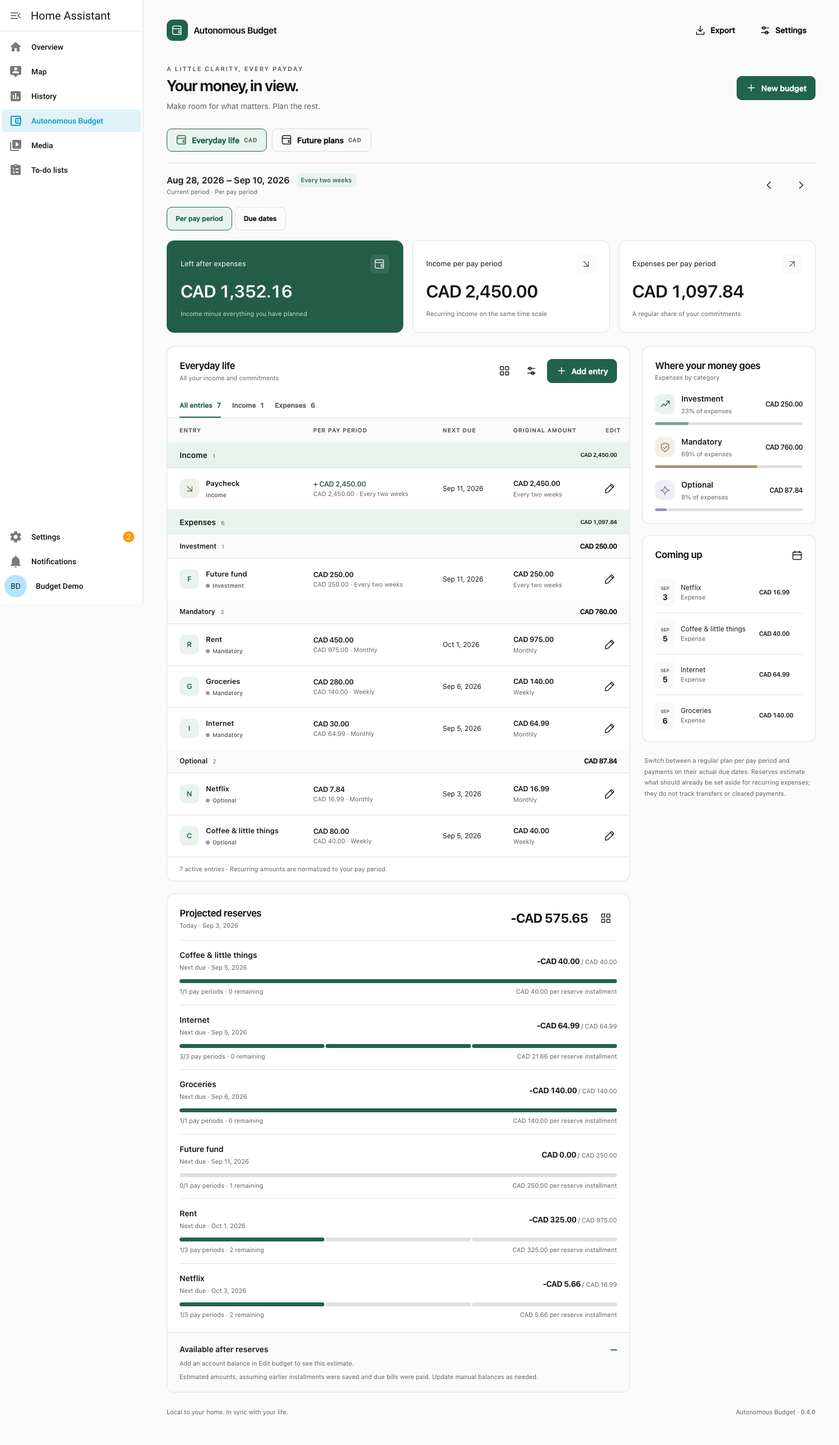
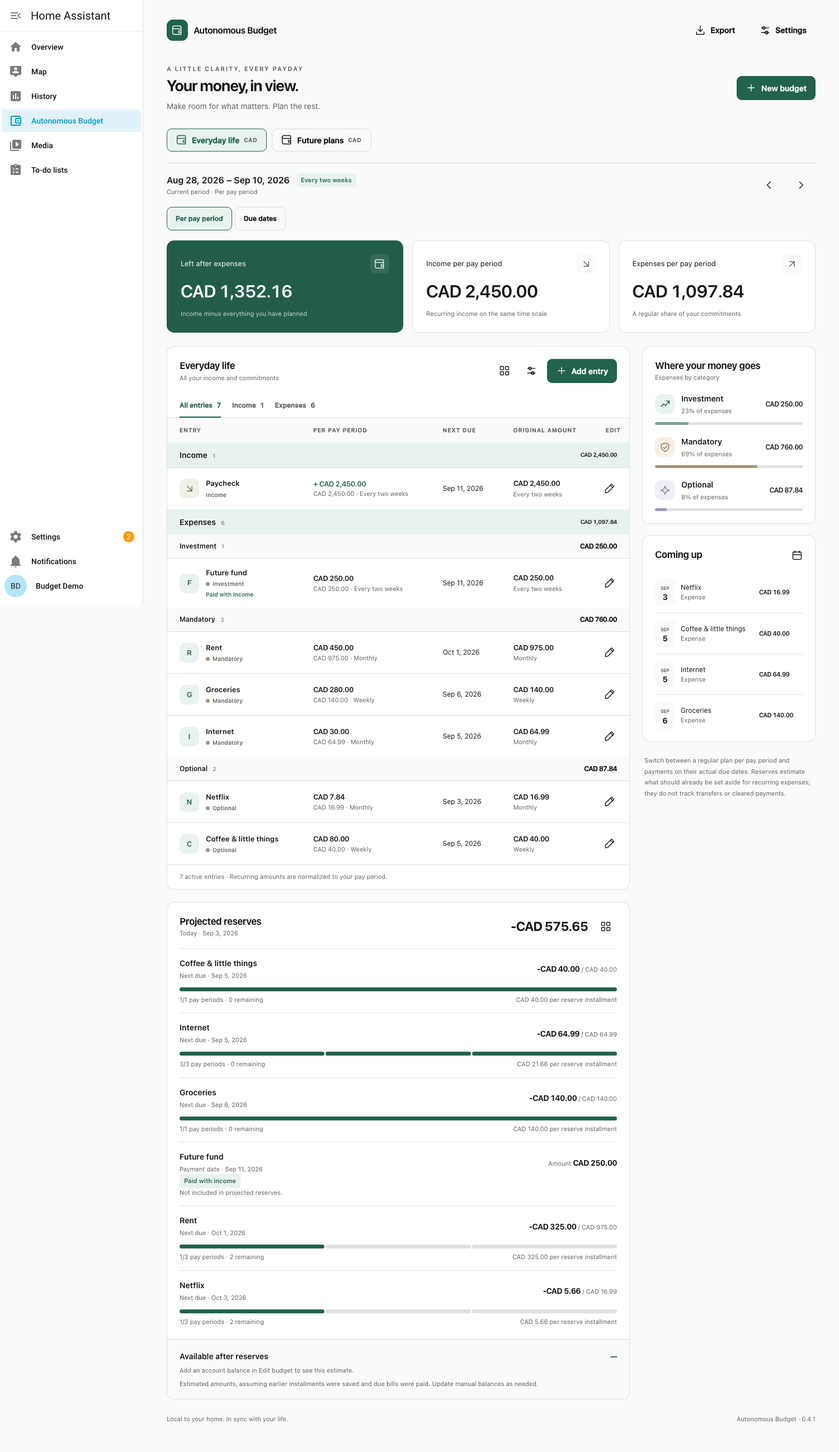
Exclude income-day expenses from projected reserves in 0.4.1

diff --git a/custom_components/autonomous_budget/frontend/autonomous-budget-panel.js b/custom_components/autonomous_budget/frontend/autonomous-budget-panel.js
@@ -1,4 +1,4 @@
-import { BudgetLiveElement, baseCSS, esc, icon, labels, options } from "./shared.js?v=0.4.0";
+import { BudgetLiveElement, baseCSS, esc, icon, labels, options } from "./shared.js?v=0.4.1";
 
 const css = `
 :host{height:100%;overflow:auto;background:var(--ab-bg)}.shell{max-width:1390px;margin:auto;padding:32px 42px 50px}.brand{gap:10px}.brand-mark{width:38px;height:38px;border-radius:11px;display:grid;place-items:center;background:var(--ab-green);color:var(--ab-surface)}.brand-title{font-size:16px;font-weight:650;letter-spacing:-.5px}.topbar{padding-bottom:32px}.topbar .muted{font-size:12px}.heading{margin:8px 0 27px}.heading p{margin-top:5px}.budgets{display:flex;gap:9px;overflow-x:auto;padding:3px 0 20px;align-items:center}.budget-tab{white-space:nowrap;background:transparent;min-height:40px;padding:9px 16px}.budget-tab.active{color:var(--ab-green);border-color:var(--ab-green);background:var(--ab-pale)}.budget-tab small{color:var(--ab-muted);font-size:10px;letter-spacing:.8px}.period-bar{padding:18px 0 23px;border-top:1px solid var(--ab-line)}.period-title{font-size:16px;font-weight:600}.period-nav{display:flex;align-items:center;gap:5px}.period-nav button{background:transparent}.period-nav .prev svg{transform:rotate(180deg)}.stats{display:grid;grid-template-columns:1.2fr 1fr 1fr;gap:16px;margin-bottom:24px}.stat{border:1px solid var(--ab-line);border-radius:13px;background:var(--ab-surface);padding:24px}.stat .value{font-size:31px;font-weight:600;margin:12px 0 8px;line-height:1.3;overflow-wrap:anywhere}.stat.balance{background:#235d48;color:#fff;border-color:#235d48}.stat.balance .muted{color:#c8dfd1}.stat.balance .badge{background:#ffffff19;color:#e2f3e9}.stat.balance .negative{color:#ffd2c8}.stat-label{font-size:13px}.stat-icon{border-radius:8px;padding:7px;background:var(--ab-bg);color:var(--ab-muted);height:34px}.balance .stat-icon{background:#ffffff15;color:#e2f3e9}.layout{display:grid;grid-template-columns:minmax(0,1fr) 310px;gap:22px;align-items:start}.box{background:var(--ab-surface);border:1px solid var(--ab-line);border-radius:13px;overflow:hidden}.box-head{padding:22px 22px 18px}.tabs{display:flex;gap:20px;padding:0 22px;border-bottom:1px solid var(--ab-line)}.tabs button{border:0;border-radius:0;background:transparent;color:var(--ab-muted);padding:11px 0;font-size:12px;min-height:44px}.tabs button.active{color:var(--ab-green);box-shadow:inset 0 -2px var(--ab-green)}.table-wrap{overflow:auto}table{border-collapse:collapse;width:100%;text-align:left}th{font-size:10px;color:var(--ab-muted);text-transform:uppercase;letter-spacing:1px;font-weight:550;padding:14px 22px;background:var(--ab-bg);white-space:nowrap}td{padding:16px 22px;border-top:1px solid var(--ab-line);font-size:12px;vertical-align:middle}td:first-child{min-width:180px}td:last-child,th:last-child{text-align:right;padding-left:0;padding-right:15px}td .entry-name{font-weight:600;font-size:13px;max-width:230px;overflow-wrap:anywhere}.entry-icon{width:35px;height:35px;border-radius:10px;display:grid;place-items:center;background:var(--ab-pale);color:var(--ab-green);flex-shrink:0;font-size:13px;font-weight:600}.entry-icon.income{background:#edf1e8;color:#5b7547}.entry-meta{display:flex;align-items:center;gap:5px;font-size:10px;color:var(--ab-muted);margin-top:3px}.amount{white-space:nowrap;font-weight:600;font-size:13px}.small{font-size:11px}.table-foot{border-top:1px solid var(--ab-line);padding:13px 22px;font-size:11px;color:var(--ab-muted)}.side{display:grid;gap:20px}.category-list{padding:0 22px 22px;display:grid;gap:19px}.category-icon{width:35px;height:35px;background:var(--ab-pale);color:var(--ab-green);border-radius:10px;display:grid;place-items:center}.category-icon.mandatory{background:#f4eee5;color:#9a7955}.category-icon.optional{background:#efedf7;color:#877fa3}.category-list .amount{font-size:12px}.bar{height:5px;border-radius:10px;background:var(--ab-line);margin-top:11px;overflow:hidden}.bar span{display:block;height:100%;background:#78a18e;border-radius:10px}.bar .mandatory{background:#ab9475}.bar .optional{background:#9795bc}.schedule{padding:0 22px 10px}.due-row{padding:12px 0;border-bottom:1px solid var(--ab-line);gap:10px}.due-row:last-child{border:0}.date-tile{width:36px;text-align:center;flex-shrink:0;background:var(--ab-bg);border-radius:7px;line-height:1.3;padding:6px 2px}.date-tile b{display:block;font-size:14px}.date-tile span{font-size:8px;text-transform:uppercase}.due-name{max-width:130px;overflow-wrap:anywhere;font-size:12px}.due-row .amount{font-size:11px}.note{padding:3px 4px;color:var(--ab-muted);font-size:11px;line-height:1.8}.footer{margin-top:27px;font-size:11px;color:var(--ab-muted)}.mobile-menu{display:none}.no-budgets{max-width:680px;margin:60px auto}.toolbar{display:flex;gap:8px}.status{padding:50px}.dialog{padding:0;background:var(--ab-surface);color:var(--ab-text);border:1px solid var(--ab-line);border-radius:15px;max-width:550px;width:calc(100% - 32px);max-height:90dvh;box-shadow:0 24px 80px #0003}.dialog::backdrop{background:#102d2366;backdrop-filter:blur(3px)}.dialog header{padding:22px 24px 12px;display:flex;align-items:center;justify-content:space-between}.dialog form,.dialog-content{padding:8px 24px 24px}.form-grid{display:grid;grid-template-columns:1fr 1fr;gap:17px}.field{display:flex;flex-direction:column;gap:7px;font-size:12px;font-weight:550}.field.full{grid-column:1/-1}.field input,.field select{width:100%;min-height:43px;border:1px solid var(--ab-line);border-radius:8px;padding:10px 11px;background:var(--ab-bg);color:var(--ab-text);outline-offset:1px;min-width:0}.field small{font-size:11px;font-weight:400;color:var(--ab-muted)}.field input:disabled,.field select:disabled{opacity:.55}.checkbox{display:flex;align-items:center;gap:9px;font-size:13px}.checkbox input{accent-color:var(--ab-green);width:17px;height:17px}.dialog-actions{display:flex;justify-content:flex-end;gap:9px;margin-top:24px}.form-error{font-size:12px;color:#b13d37;margin-top:14px}.help{padding:13px;background:var(--ab-bg);border-radius:8px;font-size:12px;color:var(--ab-muted);margin-bottom:18px}.dialog pre{white-space:pre-wrap;overflow-wrap:anywhere;padding:14px;background:var(--ab-bg);border-radius:9px;font-size:12px;user-select:all}.dialog h3{margin:18px 0 8px}.toast{position:fixed;bottom:22px;left:50%;transform:translateX(-50%);background:#235d48;color:white;border-radius:9px;padding:12px 22px;z-index:10;box-shadow:0 3px 20px #0002}.paused{opacity:.65}
@@ -32,7 +32,7 @@ class AutonomousBudgetPanel extends BudgetLiveElement {
       <div class="topbar row between"><div class="row"><button class="quiet icon mobile-menu" data-action="menu" aria-label="Open Home Assistant menu">${icon("menu")}</button><div class="brand row"><span class="brand-mark">${icon("wallet")}</span><span class="brand-title">Autonomous Budget</span></div></div><div class="row"><button class="quiet" data-action="export" aria-label="Export budgets" title="Export budgets">${icon("download")}<span class="desktop-label">Export</span></button>${this.admin ? `<button class="quiet" data-action="settings" aria-label="Settings">${icon("settings")}<span class="desktop-label">Settings</span></button>` : '<span class="badge">View only</span>'}</div></div>
       <div class="heading row between"><div><div class="eyebrow muted">A little clarity, every payday</div><h1>Your money, in view.</h1><p class="muted">Make room for what matters. Plan the rest.</p></div>${this.admin ? `<button class="primary" data-action="new-budget">${icon("plus")}New budget</button>` : ""}</div>
       ${budget ? `${this.renderBudgets(budget)}${this.renderBudget(budget)}` : `<section class="box no-budgets empty">${icon("wallet")}<h2>A fresh start for your finances</h2><p class="muted">Create your first budget, then add your income, everyday bills, and future plans.</p>${this.admin ? '<button class="primary" data-action="new-budget">Create your first budget</button>' : '<p class="muted">Ask a Home Assistant administrator to create a budget.</p>'}</section>`}
-      <div class="footer row between"><span>Local to your home. In sync with your life.</span><span>Autonomous Budget · 0.4.0</span></div>
+      <div class="footer row between"><span>Local to your home. In sync with your life.</span><span>Autonomous Budget · 0.4.1</span></div>
     </div>`;
   }
   renderBudgets(budget) {
@@ -83,7 +83,7 @@ class AutonomousBudgetPanel extends BudgetLiveElement {
   }
   renderEntry(item, budget, planned) {
     const m = (value) => this.money(value, budget.currency);
-    return `<tr class="${item.active ? "" : "paused"}"><td><div class="row"><span class="entry-icon ${item.direction}">${item.direction === "income" ? icon("down") : esc(item.name.slice(0, 1).toUpperCase())}</span><div class="entry-name"><span translate="no">${esc(item.name)}</span><div class="entry-meta">${item.direction === "expense" ? (item.category ? `<span class="category-dot ${item.category}"></span>${labels[item.category]}` : "To categorize") : "Income"}${item.active ? "" : " · Paused"}</div>${item.shared_source_id ? `<div class="automatic">Automatic contribution · ${esc(item.shared_percentage)}%</div>` : ""}</div></div></td><td><div class="amount number ${item.direction === "income" ? "positive" : ""}">${item.direction === "income" ? "+ " : ""}${planned ? m(item.planned_amount) : this.money(item.amount, item.currency)}</div><div class="small muted">${planned ? `${this.money(item.amount, item.currency)} · ` : ""}${labels[item.recurrence]}${item.currency !== budget.currency ? ` · × ${esc(item.exchange_rate)}` : ""}</div></td><td class="hide-small"><span>${this.dateLabel(item.next_due, true)}</span></td><td class="hide-medium"><div class="amount number">${planned ? this.money(item.amount, item.currency) : m(item.period_amount)}</div><span class="muted small">${planned ? labels[item.recurrence] : `${item.occurrences} due`}</span></td><td>${item.shared_source_id ? `<button class="quiet icon" data-action="select" data-id="${item.shared_source_id}" aria-label="Open shared budget" title="Open shared budget">${icon("arrow")}</button>` : this.admin ? `<button class="quiet icon" data-action="edit-item" data-id="${item.id}" aria-label="Edit ${esc(item.name)}">${icon("edit")}</button>` : ""}</td></tr>`;
+    return `<tr class="${item.active ? "" : "paused"}"><td><div class="row"><span class="entry-icon ${item.direction}">${item.direction === "income" ? icon("down") : esc(item.name.slice(0, 1).toUpperCase())}</span><div class="entry-name"><span translate="no">${esc(item.name)}</span><div class="entry-meta">${item.direction === "expense" ? (item.category ? `<span class="category-dot ${item.category}"></span>${labels[item.category]}` : "To categorize") : "Income"}${item.active ? "" : " · Paused"}</div>${item.reserve?.excluded_reason === "income_date" ? '<div class="automatic">Paid with income</div>' : ""}${item.shared_source_id ? `<div class="automatic">Automatic contribution · ${esc(item.shared_percentage)}%</div>` : ""}</div></div></td><td><div class="amount number ${item.direction === "income" ? "positive" : ""}">${item.direction === "income" ? "+ " : ""}${planned ? m(item.planned_amount) : this.money(item.amount, item.currency)}</div><div class="small muted">${planned ? `${this.money(item.amount, item.currency)} · ` : ""}${labels[item.recurrence]}${item.currency !== budget.currency ? ` · × ${esc(item.exchange_rate)}` : ""}</div></td><td class="hide-small"><span>${this.dateLabel(item.next_due, true)}</span></td><td class="hide-medium"><div class="amount number">${planned ? this.money(item.amount, item.currency) : m(item.period_amount)}</div><span class="muted small">${planned ? labels[item.recurrence] : `${item.occurrences} due`}</span></td><td>${item.shared_source_id ? `<button class="quiet icon" data-action="select" data-id="${item.shared_source_id}" aria-label="Open shared budget" title="Open shared budget">${icon("arrow")}</button>` : this.admin ? `<button class="quiet icon" data-action="edit-item" data-id="${item.id}" aria-label="Edit ${esc(item.name)}">${icon("edit")}</button>` : ""}</td></tr>`;
   }
   renderReserves(budget) {
     const m = (value) => this.money(value, budget.currency);
@@ -91,6 +91,7 @@ class AutonomousBudgetPanel extends BudgetLiveElement {
     return `<section class="box reserves" aria-label="Projected reserves"><div class="box-head row between wrap"><div><h2>Projected reserves</h2><p class="muted small">Today · ${this.dateLabel(budget.reserves.as_of, true)}</p></div><div class="row"><strong class="number reserve-total">${m(budget.reserves.amount)}</strong><button class="quiet icon" data-action="reserve-entity" aria-label="Home Assistant entity" title="Home Assistant entity">${icon("grid")}</button></div></div>
       <div class="reserve-list">${entries.length ? entries.map((item) => {
         const reserve = item.reserve;
+        if (reserve.excluded_reason === "income_date") return `<div class="reserve-entry excluded"><div class="row between wrap"><div><h3><span translate="no">${esc(item.name)}</span></h3><span class="muted small">Payment date · ${this.dateLabel(reserve.payment_date, true)}</span></div><div class="reserve-amount"><span class="muted small">Amount </span><strong class="number">${m(reserve.required_amount)}</strong></div></div><p class="small"><span class="badge">Paid with income</span></p><p class="muted small">Not included in projected reserves.</p></div>`;
         const segments = Math.min(reserve.total_paychecks, 52);
         return `<div class="reserve-entry"><div class="row between wrap"><div><h3><span translate="no">${esc(item.name)}</span></h3><span class="muted small">${reserve.contribution ? "Next pay period" : "Next due"} · ${this.dateLabel(reserve.next_due, true)}</span></div><div class="reserve-amount"><strong class="number">${m(reserve.reserved_amount)}</strong><span class="muted small"> / ${m(reserve.required_amount)}</span></div></div><div class="segments" role="progressbar" aria-label="Reserve progress" aria-valuemin="0" aria-valuemax="${reserve.total_paychecks}" aria-valuenow="${reserve.completed_paychecks}">${Array.from({length: segments}, (_, i) => `<span style="--fill:${Math.max(0, Math.min(1, reserve.progress * segments - i)) * 100}%"></span>`).join("")}</div><div class="row between wrap small muted"><span>${reserve.completed_paychecks}/${reserve.total_paychecks} pay periods · ${reserve.remaining_paychecks} remaining</span><span>${reserve.contribution ? "Reserved for this pay period" : reserve.shared ? "Based on participants’ paydays" : `${m(reserve.amount_per_paycheck)} <span>per reserve installment</span>`}</span></div></div>`;
       }).join("") : '<p class="muted small">Add a recurring expense to see its projected reserve.</p>'}</div>

diff --git a/tests/browser/budget.spec.js b/tests/browser/budget.spec.js
@@ -152,6 +152,8 @@ test('French panel, optional pay schedule, and untranslated user names', async (
   await expect(panel.locator('tbody[data-group="investment"] h3')).toContainText('Investissement');
   await expect(panel.locator('.period-nav button')).toHaveCount(2);
   await expect(panel.locator('.period-nav')).not.toContainText('Aujourd’hui');
+  await expect(panel.locator('.reserve-entry.excluded').filter({hasText:'Future fund'})).toContainText('Payé avec le revenu');
+  await expect(panel.locator('.reserve-entry.excluded').filter({hasText:'Future fund'})).toContainText('250,00 CAD');
   await page.screenshot({path:'docs/screenshot-french.png',fullPage:true});
 });
 
@@ -487,3 +489,71 @@ for (const language of ['English', 'French']) {
     }
   });
 }
+
+test('income-day expenses and common contributions stay visible but leave reserves, cards, and sensors', async ({ page }) => {
+  const panel = page.locator('autonomous-budget-panel');
+  const ids = [];
+  const today = await panel.evaluate(p => p.data.today);
+  const shifted = days => { const day = new Date(`${today}T12:00:00Z`); day.setUTCDate(day.getUTCDate() + days); return day.toISOString().slice(0, 10); };
+  async function mutate(action, payload) {
+    const {result, revision} = await panel.evaluate(async (p, {action, payload}) => {
+      const revision = p.data.revision;
+      const result = await p.hass.callWS({type:'autonomous_budget/mutate', action, payload, revision});
+      return {result, revision};
+    }, {action, payload});
+    await expect.poll(() => panel.evaluate(p => p.data.revision)).toBeGreaterThan(revision);
+    return result;
+  }
+  try {
+    const personal = (await mutate('budget_create', {name:'Income date test', currency:'CAD', period:'biweekly', anchor:today, account_balance:'500', credit_balance:'20'})).id;
+    ids.push(personal);
+    const common = (await mutate('budget_create', {name:'Shared income date test', currency:'CAD', kind:'shared', allocations:[{budget_id:personal, percentage:'60'}]})).id;
+    ids.push(common);
+    const base = {direction:'expense', category:'mandatory', currency:'CAD', recurrence:'biweekly', renewal_date:today};
+    await mutate('item_create', {...base, budget_id:common, name:'Common bill', amount:'100'});
+    await mutate('item_create', {...base, budget_id:personal, name:'Direct debit', amount:'180', renewal_date:shifted(1)});
+    await mutate('item_create', {...base, budget_id:personal, name:'Other bill', amount:'80', renewal_date:shifted(2)});
+    const salary = (await mutate('item_create', {...base, budget_id:personal, name:'Salary', amount:'1000', direction:'income'})).id;
+    const bonus = (await mutate('item_create', {...base, budget_id:personal, name:'Bonus', amount:'50', direction:'income', recurrence:'once', renewal_date:shifted(1)})).id;
+    await panel.locator(`.budget-tab[data-id="${personal}"]`).click();
+    await expect(panel.locator('.reserve-total')).toHaveText('-CAD 80.00');
+    await expect(panel.locator('.available-summary strong')).toHaveText('CAD 400.00');
+    const direct = panel.locator('.reserve-entry').filter({hasText:'Direct debit'});
+    await expect(direct).toHaveClass(/excluded/);
+    await expect(direct).toContainText('Paid with income');
+    await expect(direct.locator('.reserve-amount')).toContainText('CAD 180.00');
+    await expect(direct.getByRole('progressbar')).toHaveCount(0);
+    await expect(panel.locator('.reserve-entry.excluded').filter({hasText:'Shared income date test'})).toContainText('CAD 60.00');
+    await expect(panel.locator('tbody[data-group="mandatory"]')).toContainText('CAD 320.00');
+    await expect.poll(() => panel.evaluate((p, id) => Object.values(p.hass.states).find(s => s.attributes.budget_id === id && s.attributes.metric === 'reserved')?.state, personal)).toBe('-80.00');
+    await panel.evaluate(async (p, id) => {
+      await customElements.whenDefined('autonomous-budget-card');
+      const card = document.createElement('autonomous-budget-card');
+      card.setConfig({type:'custom:autonomous-budget-card', budget_id:id}); card.hass = p.hass;
+      document.body.append(card);
+    }, personal);
+    const card = page.locator('autonomous-budget-card');
+    await expect(card.locator('[data-section="show_reserves"]')).toContainText('-CAD 80.00');
+    await expect(card.locator('[data-section="show_shared"]')).toContainText('CAD 60.00');
+    await expect(card.locator('[data-section="show_available_balance"]')).toContainText('CAD 400.00');
+    await expect(card.locator('[data-section="show_expenses"]')).toContainText('CAD 320.00');
+    await card.evaluate(card => card.remove());
+    await panel.getByRole('button', {name:'Next period', exact:true}).click();
+    await expect(panel.locator('.reserve-total')).toHaveText('-CAD 80.00');
+    await expect(direct).toContainText('Paid with income');
+    await panel.getByRole('button', {name:'Previous period', exact:true}).click();
+    await page.reload();
+    await panel.locator(`.budget-tab[data-id="${personal}"]`).click();
+    await expect(panel.locator('.reserve-total')).toHaveText('-CAD 80.00');
+    await mutate('item_update', {...base, budget_id:personal, item_id:bonus, name:'Bonus', amount:'50', direction:'income', recurrence:'once', renewal_date:shifted(1), active:false});
+    await expect(panel.locator('.reserve-total')).toHaveText('-CAD 260.00');
+    await expect(direct).not.toHaveClass(/excluded/);
+    await mutate('item_update', {...base, budget_id:personal, item_id:salary, name:'Salary', amount:'1000', direction:'income', active:false});
+    await expect(panel.locator('.reserve-total')).toHaveText('-CAD 320.00');
+    await expect(panel.locator('.available-summary strong')).toHaveText('CAD 160.00');
+    await expect.poll(() => panel.evaluate((p, id) => Object.values(p.hass.states).find(s => s.attributes.budget_id === id && s.attributes.metric === 'reserved')?.state, personal)).toBe('-320.00');
+  } finally {
+    await page.locator('autonomous-budget-card').evaluateAll(cards => cards.forEach(card => card.remove()));
+    for (const id of ids.reverse()) if (await panel.evaluate((p, id) => p.data.budgets.some(b => b.id === id), id)) await mutate('budget_delete', {budget_id:id});
+  }
+});

diff --git a/custom_components/autonomous_budget/frontend/i18n.js b/custom_components/autonomous_budget/frontend/i18n.js
@@ -1,5 +1,8 @@
 /** English source strings and French UI translations. User content is excluded. */
 const fr = {
+  "Paid with income": "Payé avec le revenu",
+  "Payment date": "Date de paiement",
+  "Not included in projected reserves.": "Non compté dans les réserves prévisionnelles.",
   "Common budget amount": "Montant du commun",
   "Show budget title": "Afficher le titre du budget",
   "Show period and dates": "Afficher la période et les dates",

diff --git a/custom_components/autonomous_budget/frontend/autonomous-budget-card.js b/custom_components/autonomous_budget/frontend/autonomous-budget-card.js
@@ -1,4 +1,4 @@
-import { BudgetLiveElement, baseCSS, esc, icon, labels } from "./shared.js?v=0.4.0";
+import { BudgetLiveElement, baseCSS, esc, icon, labels } from "./shared.js?v=0.4.1";
 
 // One definition keeps YAML defaults and the visual editor in sync.
 const displayOptions = {

diff --git a/custom_components/autonomous_budget/frontend/shared.js b/custom_components/autonomous_budget/frontend/shared.js
@@ -1,4 +1,4 @@
-import { localize, translate } from "./i18n.js?v=0.4.0";
+import { localize, translate } from "./i18n.js?v=0.4.1";
 /** Local-only shared UI primitives. No remote fonts, scripts, or trackers. */
 export const labels = {
   "": "Use default",

diff --git a/tests/test_planning.py b/tests/test_planning.py
@@ -219,3 +219,53 @@ def test_native_sensor_values_keep_legacy_cashflow_and_add_planning_metrics():
     assert BudgetSensor(store, "home", "planned_expenses").native_value == "129.23"
     assert BudgetSensor(store, "home", "reserved").native_value == "-93.33"
     assert BudgetSensor(store, "home", "available_balance").native_value == "-63.33"
+
+
+def test_bill_on_income_date_is_excluded_without_changing_its_amount_or_expense_totals():
+    bill = expense()
+    income = expense(name="Salary", direction="income", amount="2000", renewal_date="2026-02-28")
+    original = summary([bill], account_balance="500", credit_balance="20")
+    result = summary([bill, income], account_balance="500", credit_balance="20")
+    reserve = result["items"][0]["reserve"]
+    assert reserve["excluded_reason"] == "income_date"
+    assert reserve["payment_date"] == "2026-02-28"
+    assert reserve["required_amount"] == result["items"][0]["amount"] == "280.00"
+    assert reserve["reserved_amount"] == result["reserves"]["amount"] == "0.00"
+    assert reserve["progress"] == 0
+    assert result["available_balance"] == "480.00"
+    assert result["totals"]["expenses"] == original["totals"]["expenses"] == "280.00"
+    assert result["plan"]["expenses"] == original["plan"]["expenses"] == "129.23"
+
+
+@pytest.mark.parametrize(
+    "changes",
+    [
+        {"active": False},
+        {"amount": "0"},
+        {"end_date": "2026-02-27", "renewal_date": "2026-01-28"},
+        {"renewal_date": "2026-03-28"},
+        {"renewal_date": "2026-02-27"},
+        {"currency": "USD", "amount": "0.01", "exchange_rate": "0.00001"},
+    ],
+)
+def test_absent_paused_zero_ended_or_different_date_income_does_not_exclude_reserve(changes):
+    income = expense(**({"direction": "income", "amount": "2000", "renewal_date": "2026-02-28"} | changes))
+    result = summary([expense(), income])
+    assert result["reserves"]["amount"] == "-93.33"
+    assert "excluded_reason" not in result["items"][0]["reserve"]
+
+
+def test_one_time_income_and_month_end_matching_use_actual_dates_not_frequency_labels():
+    bill = expense()
+    salary = expense(direction="income", amount="2000")
+    assert summary([bill, salary])["reserves"]["amount"] == "0.00"  # Both Jan 31 anchors clamp to Feb 28.
+    one_off = expense(direction="income", amount="50", recurrence="once", renewal_date="2026-02-28")
+    assert summary([bill, one_off])["reserves"]["amount"] == "0.00"
+    monthly_on_28 = expense(direction="income", amount="2000", renewal_date="2026-02-28")
+    budget = {"id": "home", "name": "Home", "currency": "CAD", "items": [bill, monthly_on_28]}
+    defaults = {"period": "biweekly", "anchor": "2026-01-31"}
+    february = summarize(budget, defaults, date(2026, 2, 1))
+    assert february["reserves"]["amount"] == "0.00"
+    assert summarize(budget, defaults, date(2026, 2, 1), 10)["reserves"] == february["reserves"]
+    march = summarize(budget, defaults, date(2026, 3, 1))
+    assert march["reserves"]["amount"] == "-93.33"  # March 28 income does not cover March 31 bill.

diff --git a/custom_components/autonomous_budget/model.py b/custom_components/autonomous_budget/model.py
@@ -200,7 +200,7 @@ def summarize(
     budget: dict, settings: dict, today: date, offset: int = 0, *, shared_targets: list | None = None
 ) -> dict:
     """Summarize scheduled cash flow; this is not a bank account balance."""
-    from .planning import next_occurrence, planned_amount, reserve_accrual
+    from .planning import income_on_date, next_occurrence, planned_amount, reserve_accrual
 
     period = budget.get("period") or settings["period"]
     anchor = budget.get("anchor") or settings["anchor"]
@@ -215,6 +215,7 @@ def summarize(
     review_planned = Decimal(0)
     entries = []
     due = []
+    income_dates = {}
     for item in budget["items"]:
         dates = occurrences(item, start, end)
         converted = quantize(Decimal(item["amount"]) * Decimal(item["exchange_rate"]), currency)
@@ -232,6 +233,23 @@ def summarize(
             reserve = shared_reserve(item, currency, shared_targets, settings, today)
         else:
             reserve = reserve_accrual(item, currency, period, date.fromisoformat(anchor), today)
+        if reserve:
+            # A common contribution is paid at the start of today's period;
+            # ordinary reserves target the next bill. Navigation changes neither.
+            payment_date = reserve.get("payment_date", reserve["next_due"])
+            if payment_date not in income_dates:
+                income_dates[payment_date] = income_on_date(budget["items"], currency, date.fromisoformat(payment_date))
+            if income_dates[payment_date]:
+                reserve = reserve | {
+                    "reserved_amount": str(quantize(Decimal(0), currency)),
+                    "excluded_reason": "income_date",
+                    "payment_date": payment_date,
+                    "progress": 0,
+                    "completed_paychecks": 0,
+                    "remaining_paychecks": 0,
+                    "total_paychecks": 0,
+                    "amount_per_paycheck": str(quantize(Decimal(0), currency)),
+                }
         reserved += Decimal(reserve["reserved_amount"]) if reserve else Decimal(0)
         totals["income" if item["direction"] == "income" else "expenses"] += amount
         plan["income" if item["direction"] == "income" else "expenses"] += planned

diff --git a/tests/test_sharing.py b/tests/test_sharing.py
@@ -229,6 +229,29 @@ def test_one_time_common_reserve_follows_today_and_resets_at_each_person_next_pa
     assert summarize_budgets(data, SETTINGS, date(2026, 8, 13), 0)[0]["reserves"]["amount"] == "0.00"
 
 
+def test_common_reserve_matches_current_payment_to_own_income_even_when_navigating():
+    data = household()
+    salary = bill(name="Salary", direction="income", amount="2000", recurrence="biweekly", renewal_date="2026-07-16")
+    data[0]["items"] = [salary]
+    data[0]["account_balance"] = "1000.00"
+    for offset in (-10, 0, 10):
+        axel, marie, common = summarize_budgets(data, SETTINGS, date(2026, 8, 1), offset)
+        assert axel["reserves"]["amount"] == "0.00"
+        assert axel["available_balance"] == "1000.00"
+        contribution = axel["items"][-1]
+        assert contribution["amount"] == contribution["planned_amount"] == "720.00"
+        assert contribution["reserve"]["payment_date"] == "2026-07-30"
+        assert contribution["reserve"]["excluded_reason"] == "income_date"
+        assert marie["reserves"]["amount"] == "-480.00"  # Another person's income never qualifies.
+        assert "excluded_reason" not in common["items"][0]["reserve"]
+    data[0]["items"][0]["renewal_date"] = "2026-08-13"
+    # Next payday matches, but no income on this contribution's actual payment date.
+    assert summarize_budgets(data, SETTINGS, date(2026, 8, 1), 0)[0]["reserves"]["amount"] == "-720.00"
+    data[0]["items"][0]["renewal_date"] = "2026-07-16"
+    data[0]["items"][0]["active"] = False
+    assert summarize_budgets(data, SETTINGS, date(2026, 8, 1), 0)[0]["reserves"]["amount"] == "-720.00"
+
+
 @pytest.mark.parametrize("percentage", ["-1", "100.01", "NaN", True, "0.001"])
 def test_invalid_percentages_rejected(percentage):
     with pytest.raises(ValidationError):

diff --git a/custom_components/autonomous_budget/sharing.py b/custom_components/autonomous_budget/sharing.py
@@ -110,7 +110,7 @@ def summarize_budgets(budgets: list[dict], settings: dict, today: date, offset: 
                     "shared_source_id": source["id"],
                     "shared_percentage": allocation["percentage"],
                     "shared_next_due": next_date.isoformat() if next_amount else None,
-                    "contribution_reserve": contribution_reserve(reserved_amount, current_end),
+                    "contribution_reserve": contribution_reserve(reserved_amount, current_start, current_end),
                     "locked": True,
                 }
             )
@@ -140,12 +140,13 @@ def summarize_budgets(budgets: list[dict], settings: dict, today: date, offset: 
     return results
 
 
-def contribution_reserve(amount: Decimal, period_end: date) -> dict | None:
+def contribution_reserve(amount: Decimal, period_start: date, period_end: date) -> dict | None:
     """Hold the current personal contribution in full until the next pay period."""
     if not amount:
         return None
     return {
         "next_due": period_end.isoformat(),
+        "payment_date": period_start.isoformat(),
         "required_amount": str(amount),
         "reserved_amount": str(amount),
         "amount_per_paycheck": str(amount),

diff --git a/custom_components/autonomous_budget/planning.py b/custom_components/autonomous_budget/planning.py
@@ -44,6 +44,16 @@ def planned_amount(item: dict, currency: str, period: str, start: date, end: dat
     return quantize(amount * FREQUENCIES[item["recurrence"]] / FREQUENCIES[period], currency)
 
 
+def income_on_date(items: list[dict], currency: str, day: date) -> bool:
+    """Match a real, positive scheduled income in this budget, including one-offs."""
+    return any(
+        item["direction"] == "income"
+        and quantize(Decimal(item["amount"]) * Decimal(item["exchange_rate"]), currency) > 0
+        and next_occurrence(item, day) == day
+        for item in items
+    )
+
+
 def period_index(day: date, period: str, anchor: date) -> int:
     """Index of the last payday on or before a date, including before the anchor."""
     if period in ("daily", "weekly", "biweekly"):

diff --git a/custom_components/autonomous_budget/const.py b/custom_components/autonomous_budget/const.py
@@ -2,7 +2,7 @@
 
 DOMAIN = "autonomous_budget"
 NAME = "Autonomous Budget"
-VERSION = "0.4.0"
+VERSION = "0.4.1"
 STORAGE_VERSION = 1
 SIGNAL_CHANGED = f"{DOMAIN}_changed"
 PANEL_PATH = "autonomous-budget"

diff --git a/README.md b/README.md
@@ -99,7 +99,7 @@ Amounts update when expenses, percentages, exchange rates, names, or pay schedul
 
 Percentages support two decimal places and may total up to **100%**. A partial allocation shows the unallocated percentage. Set a person's share to zero to unlink it. Deleting a personal budget removes its allocation without increasing anyone else's percentage; deleting the common budget removes its automatic contributions. Allocations cannot link to another common budget. For the same period and expense total, rounding remainders are distributed deterministically so a full allocation does not create or lose a cent. Different pay frequencies can produce small annual rounding differences.
 
-With participants configured, **common reserves** advance on each participant's own paydays strictly between the previous and next bill dates, following the ALVES model. Installments through today count as projected savings; the bill's due date starts the next reserve cycle. Each personal budget also reserves its **full contribution for the current pay period**, with a dedicated line in Projected reserves. This amount resets from the new period’s contribution on payday, and stays tied to today when browsing past or future periods. A one-time common expense is included only during the person’s period containing that expense. The common budget separately projects savings for its own bills. An unallocated common budget uses its own pay schedule for the usual reserve estimate. These are theoretical savings, not recorded transfers; update manual account balances to reflect actual contributions.
+With participants configured, **common reserves** advance on each participant's own paydays strictly between the previous and next bill dates, following the ALVES model. Installments through today count as projected savings; the bill's due date starts the next reserve cycle. Each personal budget also reserves its **full contribution for the current pay period** unless it is paid on a scheduled income date, with a dedicated line in Projected reserves. This amount resets from the new period’s contribution on payday, and stays tied to today when browsing past or future periods. A one-time common expense is included only during the person’s period containing that expense. The common budget separately projects savings for its own bills. An unallocated common budget uses its own pay schedule for the usual reserve estimate. These are theoretical savings, not recorded transfers; update manual account balances to reflect actual contributions.
 
 Shared and personal budgets both work with the existing dashboard card and eleven sensors. Exports keep allocation definitions and omit automatic contribution rows, which are regenerated from the common budget.
 
@@ -136,6 +136,16 @@ The planning convention uses 364 daily periods, 52 weeks, 26 two-week periods, 1
 
 Active recurring commitments enter the regular plan even before their first renewal, so you can prepare for future bills. They leave the plan once no occurrence remains on or after the selected period's start. **One-time entries** contribute their full amount only in the period when due. Paused entries contribute nothing. Expense categories use the selected view's calculation; income remains uncategorized.
 
+### Expenses paid on an income date
+
+An expense due on the same calendar date as a positive, active income in the **same budget** is treated as paid directly with that income. It contributes **zero to projected reserves**. Its amount, expense category, scheduled cash flow, per-pay-period plan, and common-budget amount stay unchanged.
+
+The expense remains visible at its original amount, with **Paid with income** and **Not included in projected reserves** in the reserve list. It does not show a misleading zero expense amount or a reserve progress bar. The negative reserve total, available balance, dashboard card, and native sensors all use the adjusted calculation.
+
+The comparison uses actual scheduled dates, including recurrence, month-end adjustments, first due dates, inclusive end dates, and one-time income. Paused income, zero income, and income from another budget do not qualify. A budget's reference date alone is not an income entry. The rule follows dates, regardless of whether the income covers all expenses on that date.
+
+For an ordinary recurring bill, the comparison targets its **next renewal**. It is checked again each cycle: a February 28 match does not automatically exclude a March 31 bill. For an automatic common contribution, it uses the **start of the current personal pay period**, when that contribution is scheduled, rather than the next payday. These decisions stay tied to today when browsing past or future periods. Pausing or moving an income restores reserves for expenses that no longer match.
+
 ### Projected reserves and available money
 
 Reserves follow ALVES's installment model, using each budget's effective pay period and reference date. They represent what should already be set aside, assuming earlier installments were saved and due bills were paid. They are **estimates, not tracked savings or bank transactions**.
@@ -149,7 +159,7 @@ For each recurring expense:
 
 For example, a CAD 280 monthly bill due January 31, with biweekly pay anchored to January 31, has a CAD 93.33 reserve on February 1 toward February 28: one of three installments, with two future paydays left. Its regular two-week allocation is CAD 129.23. The regular allocation and the reserve installment differ because monthly cycles do not contain a fixed whole number of two-week pay periods. On rollover, the reserve can start partially funded when fewer future paydays remain than the planned count.
 
-Daily, weekly, monthly, and yearly pay periods use the same method. The reference date may be in the past or future and is never forced to a particular weekday. One-time entries have no automatic reserve. Reserves cover the **next renewal of each recurring expense**, not every payment before the next payday. The reserve view always uses **today**, even when browsing another period.
+Daily, weekly, monthly, and yearly pay periods use the same method. The reference date may be in the past or future and is never forced to a particular weekday. One-time entries have no automatic reserve. Except for the income-date rule above, reserves cover the **next renewal of each recurring expense**, not every payment before the next payday. The reserve view always uses **today**, even when browsing another period.
 
 Optionally enter **Account balance** and **Credit owed** in the budget currency:
 
@@ -243,7 +253,7 @@ Removing the integration keeps its stored budgets so reinstalling can restore th
 
 ## Updating from an earlier version
 
-Download **0.4.0** in HACS, restart Home Assistant, and refresh open browser tabs. Existing budgets become personal budgets by default; shared allocations are opt-in. Existing budgets, entry IDs, amounts, schedules, reserves, and manual balances are preserved. Five planning/reserve sensors are added when upgrading from 0.1.0.
+Download **0.4.1** in HACS, restart Home Assistant, and refresh open browser tabs. Existing budgets become personal budgets by default; shared allocations are opt-in. Existing budgets, entry IDs, amounts, schedules, reserves, and manual balances are preserved. Five planning/reserve sensors are added when upgrading from 0.1.0.
 
 This corrects the category direction in earlier releases: **income has no category; expenses have categories**. Existing income categories are removed automatically. Earlier uncategorized expenses appear as **To categorize**: edit each one and choose Investment, Mandatory, or Optional. No category is guessed for an old expense. These entries continue contributing to total expenses, remaining money, and reserves while awaiting a category; their unassigned amount is shown separately in the breakdown.
 
